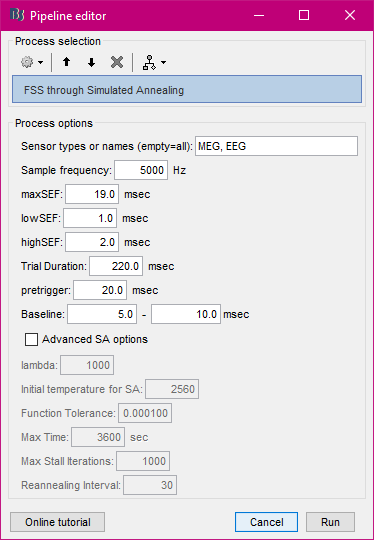
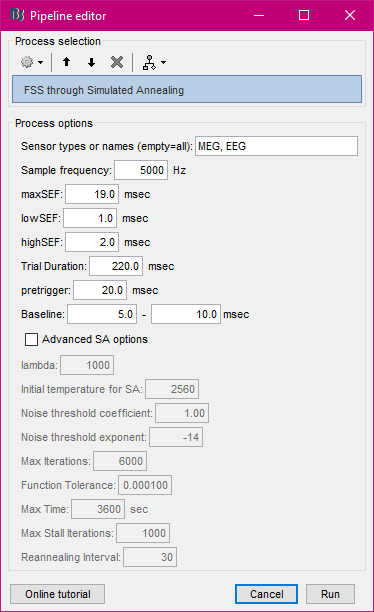
Modifiche
inserito soglia per whitening e max iteration nei parametri controllabili
modificato readme in accordo
caricato il codice del plugin

diff --git a/process_fss.m b/process_fss.m
@@ -1,0 +1,297 @@
+function varargout = process_fss( varargin )
+% PROCESS_FSS: Gets the Functional Source Separation through the Simulated
+%              Annealing Algorithm
+%
+% USAGE:      sProcess = process_fss('GetDescription')
+%               sInput = process_fss('Run', sProcess, sInput)
+%                    x = process_fss('Compute',x,triglist,maxSEF,lowSEF,
+%                        highSEF,TrialDuration,pretrigger,bas, smpfq,lambda,T0,
+%                        sa_opt)
+%
+% Authors: Rosario Ribecco, 2023
+% 
+% This code is derived from the Brainstorm 'process_notch.m' code.
+
+eval(macro_method);
+end
+
+
+%% ===== GET DESCRIPTION =====
+function sProcess = GetDescription()
+    % === Process description
+    sProcess.Comment     = 'FSS through Simulated Annealing';
+    sProcess.FileTag     = 'fss';
+    sProcess.Category    = 'Filter';
+    sProcess.SubGroup    = 'Test';
+    sProcess.Index       = 66;
+    sProcess.Description = 'https://github.com/lazarus171/FSS_Plugin_for_Brainstorm';
+    % === Input type definition
+    sProcess.InputTypes  = {'data', 'results', 'raw', 'matrix'};
+    sProcess.OutputTypes = {'data', 'results', 'raw', 'matrix'};
+    sProcess.nInputs     = 1;
+    sProcess.nMinFiles   = 1;
+    sProcess.processDim  = [];   % Prevents from data splitting
+    % === Sensor types
+    sProcess.options.sensortypes.Comment = 'Sensor types or names (empty=all): ';
+    sProcess.options.sensortypes.Type    = 'text';
+    sProcess.options.sensortypes.Value   = 'MEG, EEG';
+    sProcess.options.sensortypes.InputTypes = {'data', 'raw'};
+    % === Options definition
+    % === Sample Frequency
+    sProcess.options.smpfq.Comment = 'Sample frequency: ';
+    sProcess.options.smpfq.Type    = 'value';
+    sProcess.options.smpfq.Value   = {5000, 'Hz', 0};
+    % === maxSEF
+    sProcess.options.maxSEF.Comment = 'maxSEF: ';
+    sProcess.options.maxSEF.Type = 'value';
+    sProcess.options.maxSEF.Value = {19, 'msec', 1};
+    % === lowSEF
+    sProcess.options.lowSEF.Comment = 'lowSEF: ';
+    sProcess.options.lowSEF.Type = 'value';
+    sProcess.options.lowSEF.Value = {1, 'msec', 1};
+    % === highSEF
+    sProcess.options.highSEF.Comment = 'highSEF: ';
+    sProcess.options.highSEF.Type = 'value';
+    sProcess.options.highSEF.Value = {2, 'msec', 1};
+    % === TrialDuration
+    sProcess.options.TrialDuration.Comment = 'Trial Duration: ';
+    sProcess.options.TrialDuration.Type = 'value';
+    sProcess.options.TrialDuration.Value = {220, 'msec', 1};
+    % === pretrigger
+    sProcess.options.pretrigger.Comment = 'pretrigger: ';
+    sProcess.options.pretrigger.Type = 'value';
+    sProcess.options.pretrigger.Value = {20, 'msec', 1};
+    % === bas
+    sProcess.options.bas.Comment = 'Baseline: ';
+    sProcess.options.bas.Type    = 'range';
+    sProcess.options.bas.Value   = {[5, 10], 'msec', 1};
+    
+    % === Advanced Options Controller Definition
+    sProcess.options.control.Comment = 'Advanced SA options';
+    sProcess.options.control.Type = 'checkbox';
+    sProcess.options.control.Value = 0;
+    sProcess.options.control.Controller = 'advanced';
+    
+    % === Balancing Parameter Lambda
+    sProcess.options.lambda.Comment = 'lambda: ';
+    sProcess.options.lambda.Type    = 'value';
+    sProcess.options.lambda.Value   = {1000, '', 0};
+    sProcess.options.lambda.Class = 'advanced';
+    % === Initial Temperature
+    sProcess.options.T0.Comment = 'Initial temperature for SA: ';
+    sProcess.options.T0.Type    = 'value';
+    sProcess.options.T0.Value   = {2560, '', 0};
+    sProcess.options.T0.Class = 'advanced';
+    % === PCA noise threshold coefficient
+    sProcess.options.pcaLimC.Comment = 'Noise threshold coefficient: ';
+    sProcess.options.pcaLimC.Type    = 'value';
+    sProcess.options.pcaLimC.Value   = {1, '', 2};
+    sProcess.options.pcaLimC.Class = 'advanced';
+    % === PCA noise threshold exponent
+    sProcess.options.pcaLimE.Comment = 'Noise threshold exponent: ';
+    sProcess.options.pcaLimE.Type    = 'value';
+    sProcess.options.pcaLimE.Value   = {-14, '', 0};
+    sProcess.options.pcaLimE.Class = 'advanced';
+    % === Max Number of Iterations
+    sProcess.options.maxIter.Comment = 'Max Iterations: ';
+    sProcess.options.maxIter.Type = 'value';
+    sProcess.options.maxIter.Value = {6000, '', 0};
+    sProcess.options.maxIter.Class = 'advanced';
+    % === Function Tolerance
+    sProcess.options.functol.Comment = 'Function Tolerance: ';
+    sProcess.options.functol.Type = 'value';
+    sProcess.options.functol.Value = {0.000100, '', 6};
+    sProcess.options.functol.Class = 'advanced';
+    % === Max Time
+    sProcess.options.maxtime.Comment = 'Max Time: ';
+    sProcess.options.maxtime.Type = 'value';
+    sProcess.options.maxtime.Value = {3600, 'sec', 0};
+    sProcess.options.maxtime.Class = 'advanced';
+    % === Max Stall Iterations
+    sProcess.options.maxstalliter.Comment = 'Max Stall Iterations: ';
+    sProcess.options.maxstalliter.Type = 'value';
+    sProcess.options.maxstalliter.Value = {1000, '', 0};
+    sProcess.options.maxstalliter.Class = 'advanced';
+    % === Reannealing Interval
+    sProcess.options.reanninter.Comment = 'Reannealing Interval: ';
+    sProcess.options.reanninter.Type = 'value';
+    sProcess.options.reanninter.Value = {30, '', 0};
+    sProcess.options.reanninter.Class = 'advanced';
+end
+
+%% ===== FORMAT COMMENT =====
+function Comment = FormatComment(sProcess) 
+    Comment = sProcess.Comment;
+end
+
+
+%% ===== RUN =====
+function sInput = Run(sProcess, sInput)
+    
+    % === Get options
+    maxSEF = sProcess.options.maxSEF.Value{1};
+    lowSEF = sProcess.options.lowSEF.Value{1};
+    highSEF = sProcess.options.highSEF.Value{1};
+    TrialDuration = sProcess.options.TrialDuration.Value{1};
+    pretrigger = sProcess.options.pretrigger.Value{1};
+    bas = sProcess.options.bas.Value{1};
+    smpfq = sProcess.options.smpfq.Value{1};
+    
+    % === Get advanced options
+    lambda = sProcess.options.lambda.Value{1};
+    T0 = sProcess.options.T0.Value{1};
+    coeff = sProcess.options.pcaLimC.Value{1};
+    expon = sProcess.options.pcaLimE.Value{1};
+    sa_opt = struct;
+    sa_opt.nsThr = coeff*10^expon;
+    sa_opt.maxIter = sProcess.options.maxIter.Value{1};
+    sa_opt.functol = sProcess.options.functol.Value{1};
+    sa_opt.maxtime = sProcess.options.maxtime.Value{1};
+    sa_opt.maxstalliter = sProcess.options.maxstalliter.Value{1};
+    sa_opt.reanninter = sProcess.options.reanninter.Value{1};
+    
+    % Get the trigger list
+    triglist = load(sInput.FileName);
+    triglist = triglist.F.events.times;
+    triglist = int64(triglist * smpfq);
+    
+    % Execute FSS_SEF code
+    [sInput.A] = Compute(sInput.A, triglist,maxSEF,lowSEF,highSEF,TrialDuration,pretrigger,bas,smpfq,lambda,T0, sa_opt);
+   
+
+end
+
+
+%% ===== EXTERNAL CALL =====
+% USAGE: x = process_fss('Compute', x, triglist,maxSEF,lowSEF,highSEF,TrialDuration,pretrigger,bas,smpfq,lambda,T0, sa_opt)
+function [x] = Compute(x, triglist,maxSEF,lowSEF,highSEF,TrialDuration,pretrigger,bas,smpfq,lambda,T0, sa_opt)
+% EEG centering
+medie_eeg = mean(x,2);
+eeg_c = x - medie_eeg;
+% Whitening and de_whitening martices calculation from centered EEG
+[whiteMatrix,dewhiteMatrix] = pcaWhitening(eeg_c, sa_opt.nsThr);
+% Centered EEG whitening
+whiteEEGc = whiteMatrix*eeg_c;
+% Simulated Annealing starting point initialization
+w0 = whiteMatrix*(rand(size(eeg_c,1), 1)-0.5);
+% Objective function definition
+fun_obj=@(w) -f_obj(w, whiteEEGc, triglist, maxSEF, lowSEF, highSEF, TrialDuration, pretrigger, bas, lambda, smpfq);
+% Simulated Annealing settings
+options = optimoptions(@simulannealbnd,...
+    'AcceptanceFcn',@(optimValues,newx,newfval) boltzacceptancefun(optimValues,newx,newfval),...
+    'AnnealingFcn','annealingboltz',...
+    'DataType','double',...
+    'FunctionTolerance',sa_opt.functol,...
+    'InitialTemperature',T0,...
+    'ObjectiveLimit',-Inf,...
+    'TemperatureFcn',@(optimValues,options) options.InitialTemperature.*0.8.^(optimValues.k),...
+    'HybridFcn',[],...
+    'PlotFcn',{'saplotf','saplotx'},...
+    'Display','iter',...
+    'MaxIterations',sa_opt.maxIter,...
+    'MaxTime', sa_opt.maxtime,...
+    'MaxStallIterations',sa_opt.maxstalliter,...
+    'ReannealInterval',sa_opt.reanninter);
+    
+lower_bound=-ones(size(w0));
+lower_bound(1)=0; % Sign ambiguity removal on w.
+upper_bound=ones(size(w0));
+% Objective Function minimization through Simulated Annealing
+tic
+rng default;
+[w, fval ]= simulannealbnd(fun_obj,w0,lower_bound,upper_bound,options);
+w=w/norm(w);
+% AFS and WFS calculation
+AFS = dewhiteMatrix*w;
+WFS = w'*whiteMatrix;
+% Functional Source and its retroprojection calculation
+FS = w'*(whiteEEGc+whiteMatrix*medie_eeg);
+Retroprojected_FS=AFS*FS;
+x = Retroprojected_FS;
+toc
+end
+
+%% ===== WHITENING MATRIX =====
+function [whiteMatrix,dewhiteMatrix]=pcaWhitening(eeg_c, pcaLim)
+% Whitening and de-whitening matrices calculation using PCA.
+
+% Covariance matrix calculation
+covarianceMatrix = cov(eeg_c', 1);
+
+% Eigenvalues and related eigenvectors calculation
+[E, D] = eig (covarianceMatrix,'vector');
+[D,I]=sort(D,'descend');
+% PCA application
+k=nnz(D>pcaLim);
+D=D(1:k);
+E=E(:,I(1:k));
+
+% Whitening and de-whitening matrices calculation
+whiteMatrix = (sqrt(D.^-1)).*E';
+dewhiteMatrix = E.*sqrt(D');
+
+end
+
+%% ===== OBJECTIVE FUNCTION =====
+function [Res] = f_obj(w, whiteEEGc, triggerList, maxSEF, lowSEF, highSEF, TrialDuration_ms, pretrigger_ms, bas_ms,lambda, smpfq)
+% Objective function for FSS definition: f_obj(w)=J(w'*whiteEEGc)+lambda*RF_S1(w'*whiteEEGc)
+w=w/norm(w);
+evokedActivity = w'*whiteEEGc;
+
+% Kurtosis calculation
+m2 = mean(evokedActivity.^2);
+m4 = mean(evokedActivity.^4);
+Kurtosis = m4/(m2^2)-3;
+
+% Functional constraint calculation
+TrialDuration = round((TrialDuration_ms/1000)*smpfq);
+pretrigger = round((pretrigger_ms/1000)*smpfq);
+
+% Baseline settings
+if bas_ms(1)~= bas_ms(2)
+    bas(1) = round(((pretrigger_ms+bas_ms(1))/1000)*smpfq);
+    bas(2) = round(((pretrigger_ms+bas_ms(2))/1000)*smpfq);
+else
+    bas = [];
+end
+sef = zeros(1,TrialDuration);
+maxSEF = round((maxSEF/1000)*smpfq);
+lowSEF = round((lowSEF/1000)*smpfq);
+highSEF = round((highSEF/1000)*smpfq);
+for k = 2:length(triggerList)-1
+    if isempty(bas) == 1
+        sef = sef+evokedActivity((triggerList(k)-pretrigger+1):(triggerList(k)-pretrigger+TrialDuration));
+    else
+        sef = sef+evokedActivity((triggerList(k)-pretrigger+1):(triggerList(k)-pretrigger+TrialDuration))-mean(evokedActivity((triggerList(k)+bas(1)):(triggerList(k)+bas(2))));
+    end
+end
+nave = length(triggerList)-2;
+sef = sef/nave;
+if isempty(bas) == 0
+    sef = sef - mean(sef(bas(1):bas(2)));
+end
+absSef = abs(sef);
+windows = ((maxSEF-lowSEF+pretrigger):(maxSEF+highSEF+pretrigger));
+if isempty(bas) == 0
+    indiceSEF = sum(absSef(windows),2)-sum(absSef(bas(1):bas(2)),2);
+else
+    indiceSEF = sum(absSef(windows),2);
+end
+
+
+% Objective function return
+Res = Kurtosis+lambda*indiceSEF;
+
+end
+
+%% ===== ACCEPTANCE FUNCTION =====
+function acceptpoint = boltzacceptancefun(optimValues,~,newfval)
+
+if newfval <= optimValues.fval
+    acceptpoint = true;
+elseif rand(1)<=exp((optimValues.fval-newfval)/(max(optimValues.temperature)))
+    acceptpoint = true;
+else
+    acceptpoint = false;
+end
+end

diff --git a/README.md b/README.md
@@ -24,13 +24,16 @@ The dataset consists of:
 - highSEF: is the time **after** maxSEF (on its right side) in which the potential is half the value of maxSEF potential. Expressed in absolute value.
 - Trial Duration : the length of a single trial, including the pretrigger.
 - pretrigger: the small amount of time considered **before** a trigger instant.
-- bas: indicates the points between which the baseline is calculated.
+- bas: indicates the points between which the baseline is calculated. If set at the same value, the process will consider the whole trial as the baseline.
 
 ### Simulated Annealing options
 - Advanced SA options: if selected, it allows the user to change the successive Simulated Annealing parameters.
 - lambda: a balancing parameter used in computing the Simulated Annealing objective function.
 - Initial temperature for SA: the initial value of the temperature for SA.
+- Noise threshold coefficient: used by the PCA whitening function, is the coefficient of the value (in scientific notation, **coefficient * 10^exponent**) under which the signals are conidered as noise.
+- Noise threshold exponent: used by the PCA whitening function, is the exponent of the value (in scientific notation, **coefficient * 10^exponent**) under which the signals are considered as noise.
 - Function Tolerance: one of the SA stopping criteria.
+- Max Iterations: one more SA stopping criteria: the algorithm stops after this number of iterations.
 - Max Time: another SA stopping criteria.
 - Max Stall Iteration: the third SA stopping criteria.
 - Reannealing Interval: causes the algorithm to restart from a temperature comprised between the current temperature and the previous starting one.
